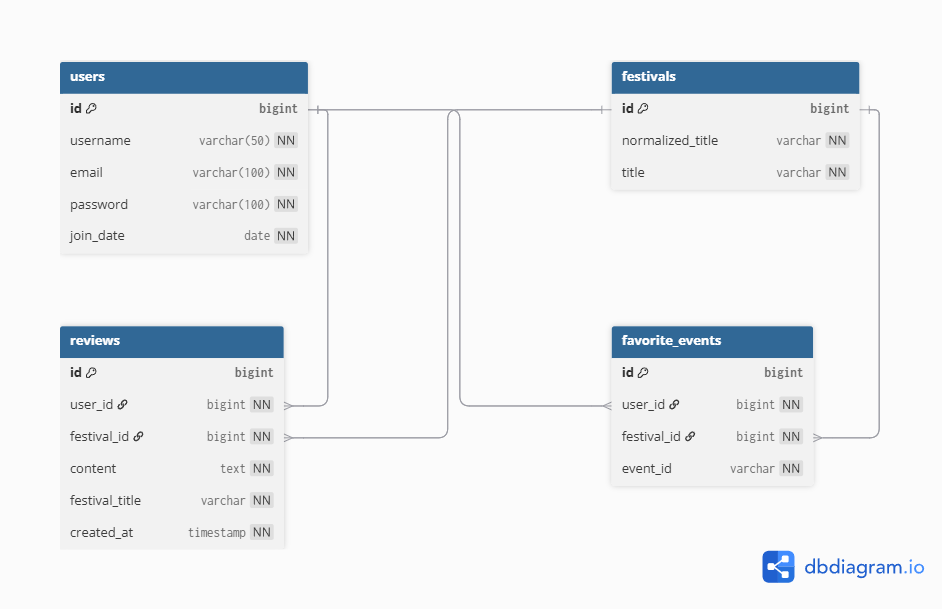
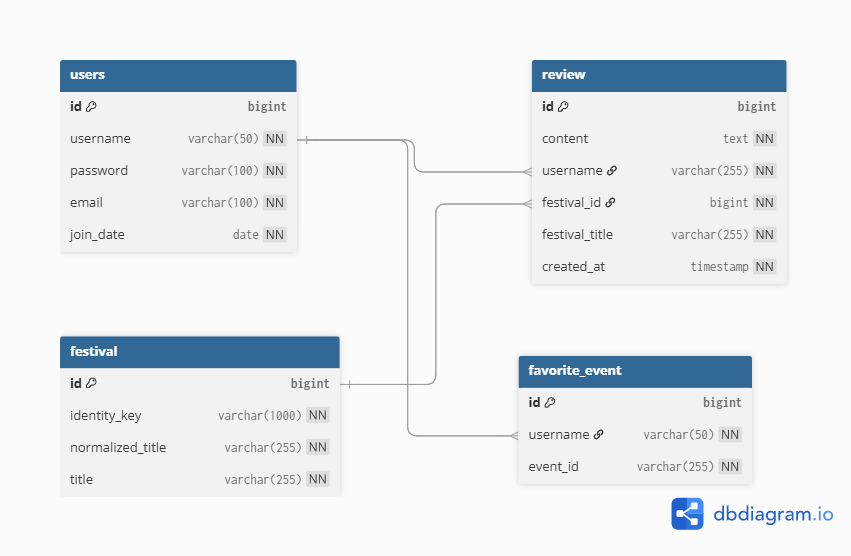
READMEUpdate

diff --git a/src/main/java/com/project/web/repository/FestivalRepository.java b/src/main/java/com/project/web/repository/FestivalRepository.java
@@ -8,6 +8,4 @@ import java.util.Optional;
 public interface FestivalRepository extends JpaRepository<FestivalEntity, Long> {
 
     Optional<FestivalEntity> findByIdentityKey(String identityKey);
-
-    Optional<FestivalEntity> findByNormalizedTitle(String normalizedTitle);
 }

diff --git a/README.md b/README.md
@@ -26,6 +26,7 @@
 ## 배포 주소
 
 - **Render**: `https://ggnow-portfolio.onrender.com/main`
+(Render 무료 인스턴스 특성상 일정 시간 미사용 후 첫 요청 시 서버가 다시 기동되며, 초기 접속에 시간이 걸릴 수 있습니다.)
 - **Railway**: `https://ggnow-portfolio-production.up.railway.app/main` (요금 문제로 현재 비활성화 상태입니다.)
 - **GitHub Repository**: `https://github.com/HyeongSeok7/GGNOW-Portfolio`
 
@@ -68,12 +69,15 @@
 - **공연 / 교육 / 문화 / 전시** 카테고리별 페이지를 분리해 조회할 수 있습니다.
 
 ### 2. 행사 검색
-- 사용자가 입력한 **행사 제목 키워드**를 기준으로 검색할 수 있습니다.
+- 사용자가 입력한 키워드를 기준으로 행사 정보를 검색할 수 있습니다.
+- 검색 시 단순 제목 비교가 아니라, 공백과 특수문자를 정리한 정규화 값을 기준으로 비교합니다.
+- 행사 제목뿐 아니라 **주최 기관명, 주소**도 함께 검색 대상에 포함하여 사용자가 더 쉽게 행사를 찾을 수 있도록 개선했습니다.
 
 ### 3. 행사 상세 조회
 - 행사 목록 및 검색 결과에서 선택한 행사 상세 페이지로 이동할 수 있습니다.
-- 상세 페이지는 외부 API의 제목 문자열이 아닌, 내부 식별자인 `festivalId` 기반으로 조회되도록 설계했습니다.
-- 이를 통해 **특수문자**가 포함된 제목이나 제목 표기 차이에도 안정적으로 상세 조회, 리뷰, 즐겨찾기 기능을 연결할 수 있습니다
+- 초기에는 행사 제목을 URL 식별자로 사용했지만, 특수문자나 동일 제목 행사 문제로 인해 내부 식별자인 `festivalId` 기반 상세 조회 구조로 변경했습니다.
+- `festivalId`는 외부 API 데이터의 제목만으로 생성하지 않고, **제목 / 시작일 / 종료일 / 시간 / 주소 / 참가비**를 조합한 `identityKey`를 기준으로 생성합니다.
+- 이를 통해 같은 제목의 다른 행사도 서로 다른 행사로 구분할 수 있으며, 리뷰와 즐겨찾기 기능을 더 안정적으로 연결할 수 있습니다.
 
 ### 4. 회원가입 / 로그인
 - 회원가입 시 **아이디 중복 확인** 기능을 제공합니다.
@@ -191,9 +195,13 @@ src
 
 ### 주요 엔티티
 - **User** : 회원 정보 관리
-- **Review** : 행사 리뷰 저장
+- **Review** : 행사별 리뷰 저장
 - **FavoriteEvent** : 회원별 즐겨찾기 행사 저장
-- **FestivalEntity** : 행사 식별용 엔티티
+- **FestivalEntity** : 외부 API 행사 데이터를 내부 기능과 연결하기 위한 식별 엔티티
+  - `id` : 서비스 내부에서 사용하는 행사 식별자
+  - `identityKey` : 제목 / 날짜 / 시간 / 주소 / 참가비를 조합한 행사 식별 키
+  - `normalizedTitle` : 검색 및 비교를 위해 정규화한 행사 제목
+  - `title` : 화면 표시용 원본 행사 제목
 
 ---
 
@@ -205,12 +213,17 @@ src
 - 비밀번호 변경 시 현재 비밀번호를 검증하고, 변경 후에는 세션을 종료해 다시 로그인하도록 처리했습니다.
 
 ### 2. 외부 API 데이터 처리
-- 공공데이터 API의 XML 응답을 받아 파싱하도록 구현했습니다.
-- 외부 데이터 특성상 **중복 행사 데이터**가 존재할 수 있어, **제목 / 날짜 / 시간 / 주소 / 참가비** 정보를 기준으로 중복 제거 로직을 적용했습니다.
+- 경기도 공공데이터 API의 XML 응답을 받아 행사 정보를 파싱하도록 구현했습니다.
+- 외부 API 데이터에는 같은 행사가 중복으로 내려오거나, 제목 표기가 조금씩 다른 데이터가 포함될 수 있었습니다.
+- 이를 해결하기 위해 제목만 기준으로 중복을 판단하지 않고, **제목 / 시작일 / 종료일 / 시간 / 주소 / 참가비**를 조합한 fingerprint를 생성해 중복 제거 기준으로 사용했습니다.
+- 중복 데이터가 발견될 경우 이미지, 홈페이지 URL 등 정보가 더 풍부한 데이터를 우선 선택하도록 처리했습니다.
 
-### 3. 행사 식별 ID 분리
-- 외부 API 데이터만으로는 내부 기능(리뷰, 즐겨찾기)을 안정적으로 연결하기 어렵다고 판단했습니다.
-- 따라서 정규화된 제목 기준으로 내부 `festivalId`를 생성 / 관리하여, 리뷰와 즐겨찾기가 안정적으로 연결되도록 설계했습니다.
+### 3. 외부 행사 데이터와 내부 식별자 분리
+- 외부 API 행사 데이터에는 서비스 내부에서 그대로 사용할 수 있는 고정 PK가 없었습니다.
+- 초기에는 정규화된 행사 제목을 기준으로 내부 `festivalId`를 생성했지만, 같은 제목의 다른 행사가 존재할 경우 리뷰와 즐겨찾기가 잘못 연결될 수 있다는 한계가 있었습니다.
+- 이를 개선하기 위해 `FestivalEntity`에 `identityKey`를 추가하고, **제목 / 시작일 / 종료일 / 시간 / 주소 / 참가비**를 조합한 값을 내부 식별 기준으로 사용했습니다.
+- 사용자가 행사 목록, 검색 결과, 마이페이지에서 상세 페이지로 이동할 때 모두 내부 `festivalId`를 사용하도록 구성했습니다.
+- 결과적으로 외부 API의 문자열 데이터와 서비스 내부 식별자를 분리하여, 리뷰 / 즐겨찾기 / 상세 페이지 연결의 안정성을 높였습니다.
 
 ### 4. 캐시 적용
 - 행사 목록 조회 시 매번 외부 API를 호출하지 않도록 캐시를 적용했습니다.
@@ -240,13 +253,19 @@ src
 ### 2. 리뷰 / 즐겨찾기 기능에서 행사 식별이 불안정했던 문제
 
 #### 문제
-- 외부 API 행사 데이터는 내부 DB의 고정 PK가 아니기 때문에, 제목만으로 리뷰나 즐겨찾기를 연결하면 일관성이 깨질 수 있었습니다.
+- 외부 API 행사 데이터는 내부 DB의 고정 PK가 아니기 때문에, 리뷰와 즐겨찾기를 어떤 기준으로 연결할지 고민이 필요했습니다.
+- 초기에는 정규화된 제목을 기준으로 내부 `FestivalEntity`를 생성했지만, 같은 제목을 가진 다른 행사가 존재할 수 있다는 문제가 있었습니다.
+- 예를 들어 같은 제목의 행사가 날짜나 장소만 다르게 열릴 경우, 제목만으로 구분하면 서로 다른 행사가 하나의 행사처럼 처리될 수 있었습니다.
 
 #### 해결
-- 정규화된 제목을 기준으로 내부 `FestivalEntity`를 생성하고, 고유한 `festivalId`를 발급해 리뷰 / 즐겨찾기와 연결했습니다.
+- `FestivalEntity`에 `identityKey` 컬럼을 추가했습니다.
+- `identityKey`는 행사 제목만 사용하지 않고, **제목 / 시작일 / 종료일 / 시간 / 주소 / 참가비**를 조합해 생성했습니다.
+- `festivalId` 생성 시 기존의 `normalizedTitle` 기준 조회가 아니라 `identityKey` 기준 조회로 변경했습니다.
+- 행사 목록, 검색 결과, 마이페이지에서 상세 페이지로 이동할 때 모두 동일한 방식으로 `identityKey`를 생성하고, 해당 값에 매핑된 내부 `festivalId`를 사용하도록 수정했습니다.
 
 #### 배운 점
-- 외부 데이터를 그대로 사용하는 것보다, 서비스 내부 기준의 식별 체계를 따로 두는 것이 유지보수에 유리하다는 점을 배웠습니다.
+- 외부 API 데이터는 화면에 표시하는 값과 내부 식별자로 사용하는 값을 분리해야 안정적으로 관리할 수 있다는 점을 배웠습니다.
+- 특히 리뷰, 즐겨찾기처럼 DB에 저장되는 사용자 데이터는 외부 문자열 값에 직접 의존하기보다, 서비스 내부에서 관리하는 식별자를 기준으로 연결하는 것이 더 안전하다는 점을 알게 되었습니다
 
 ### 3. 제목 기반 상세 페이지 라우팅이 불안정했던 문제
 
@@ -257,8 +276,8 @@ src
 
 #### 해결
 - 상세 페이지 진입 기준을 제목 기반이 아닌 내부 식별자인 `festivalId` 기반으로 변경했습니다.
+- 기존 제목 기반 경로는 호환용으로 유지하되, 내부적으로는 `identityKey` 기준으로 `festivalId`를 조회하거나 생성한 뒤 `/festival/id/{festivalId}` 경로로 리다이렉트되도록 처리했습니다.
 - 행사 목록, 검색 결과, 마이페이지에서 상세 페이지로 이동할 때 모두 `festivalId`를 사용하도록 수정했습니다.
-- 기존 제목 기반 경로는 호환을 위해 유지하되, 내부적으로는 `festivalId` 기반 상세 경로로 리다이렉트되도록 처리했습니다.
 
 #### 배운 점
 - 외부 API의 문자열 데이터는 사용자에게 보여주는 값과 시스템 내부 식별 값으로 분리해서 설계해야 한다는 점을 배웠습니다.
@@ -293,6 +312,17 @@ src
 - 프론트엔드 동작 문제는 항상 코드 자체만의 문제가 아닐 수 있다는 점을 배웠습니다. 
 - 특히 애니메이션이나 인터랙션 기능은 사용자 환경 설정의 영향을 받을 수 있기 때문에, 디버깅 시 실행 환경까지 함께 고려하는 습관이 중요하다는 것을 깨달았습니다.
 
+### 6. 행사 식별 기준 변경 후 DB 제약조건 충돌 문제
+
+#### 문제
+- 행사 식별 기준을 `normalizedTitle`에서 `identityKey`로 변경한 뒤, 카테고리 페이지 접속 시 500 에러가 발생했습니다.
+- 원인은 기존 DB에 남아 있던 `normalized_title` unique 제약조건이었습니다.
+- 코드에서는 같은 제목의 다른 행사도 저장할 수 있도록 `identityKey` 기준으로 변경했지만, DB에는 여전히 "같은 normalizedTitle은 저장할 수 없다"는 이전 제약조건이 남아 있었습니다.
+
+#### 해결
+- 개발 환경에서는 기존 행사 관련 테이블을 초기화했습니다.
+- 이후 `FestivalEntity`의 unique 기준을 `identity_key`로 다시 생성하여, 같은 제목의 다른 행사도 날짜 / 시간 / 장소 / 참가비가 다르면 별도 행사로 저장될 수 있도록 수정했습니다.
+
 ---
 
 ## 아쉬운 점
@@ -300,17 +330,20 @@ src
 - 고객센터의 **건의사항 전송 기능**은 UI만 구현되어 있고 실제 전송 기능은 아직 미구현 상태입니다.
 - 이번 프로젝트는 기능 구현과 배포 흐름을 우선으로 진행했으며, 주요 기능은 회원가입, 로그인, 상세 조회, 리뷰, 즐겨찾기, 마이페이지 중심으로 수동 검증했습니다.
 - 추후에는 핵심 서비스 로직부터 단위 테스트를 보완해 안정성을 높일 계획입니다.
-- 검색 기능은 현재 기본적인 제목 키워드 검색 중심이어서, 추후 카테고리 / 날짜 기반 필터링 기능을 추가하고 싶습니다.
+- 검색 기능은 제목 / 기관명 / 주소 기준으로 개선했지만, 아직 날짜 범위, 지역, 카테고리 등 세부 조건 기반 필터링은 부족합니다.
+- 현재 `Review`와 `FavoriteEvent`는 `festivalId`, `username` 값을 중심으로 연결하고 있어 기능 구현에는 문제가 없지만, 추후에는 JPA 연관관계를 더 명확하게 표현하도록 리팩토링하고 싶습니다.
 
 ---
 
 ## 개선 방향
 
-- 이메일 전송 기반 문의 기능 추가
-- 검색 조건 세분화
-- 페이징 처리
-- 테스트 코드 보강
+- 이메일 전송 또는 DB 저장 기반 문의 기능 추가
+- 날짜 / 지역 / 카테고리 기반 검색 조건 세분화
+- 행사 목록 페이징 처리
+- 핵심 서비스 로직 단위 테스트 보강
+- 운영 환경 설정 분리 및 배포 설정 고도화
 - 예외 처리 및 사용자 메시지 개선
+- `Review`, `FavoriteEvent`와 `User`, `FestivalEntity` 간 JPA 연관관계 리팩토링
 - UI/UX 고도화
 
 ---
@@ -352,9 +385,14 @@ cd GGNOW-Portfolio
 
 특히 백엔드 개발자로서 아래와 같은 부분을 직접 고민하고 구현해본 경험이 의미 있었습니다.
 
-- 데이터를 어떻게 저장하고 관리할지
+- 외부 API 데이터를 어떻게 정제하고 사용할지
+- 화면 표시용 데이터와 내부 식별자를 어떻게 분리할지
 - 사용자 권한을 어떻게 통제할지
-- 외부 데이터를 어떻게 안정적으로 가공할지
-- 실제 서비스에 가까운 인증 / 상태 흐름을 어떻게 설계할지
+- 리뷰와 즐겨찾기 같은 사용자 데이터를 어떤 기준으로 연결할지
+- 실제 배포 환경에서 설정과 DB를 어떻게 관리할지
 
-앞으로는 테스트 코드, 예외 처리, 검색 고도화 등을 보완해 더 안정적인 백엔드 서비스를 개발할 수 있도록 발전시키고 싶습니다.
+처음에는 행사 제목을 정규화해 내부 식별 기준으로 사용했지만, 같은 제목의 다른 행사가 존재할 수 있다는 한계를 발견했습니다. 이후 제목뿐 아니라 날짜, 시간, 주소, 참가비를 조합한 `identityKey`를 도입해 내부 `festivalId`를 발급하도록 개선했습니다.
+
+이 과정을 통해 외부 데이터는 그대로 신뢰하기보다 서비스 목적에 맞게 정제하고, 사용자 데이터와 연결되는 부분은 내부 식별자를 기준으로 설계해야 한다는 점을 배웠습니다.
+
+앞으로는 테스트 코드, 예외 처리, 검색 고도화, 운영 환경 설정 분리 등을 보완해 더 안정적인 백엔드 서비스를 개발할 수 있도록 발전시키고 싶습니다.
